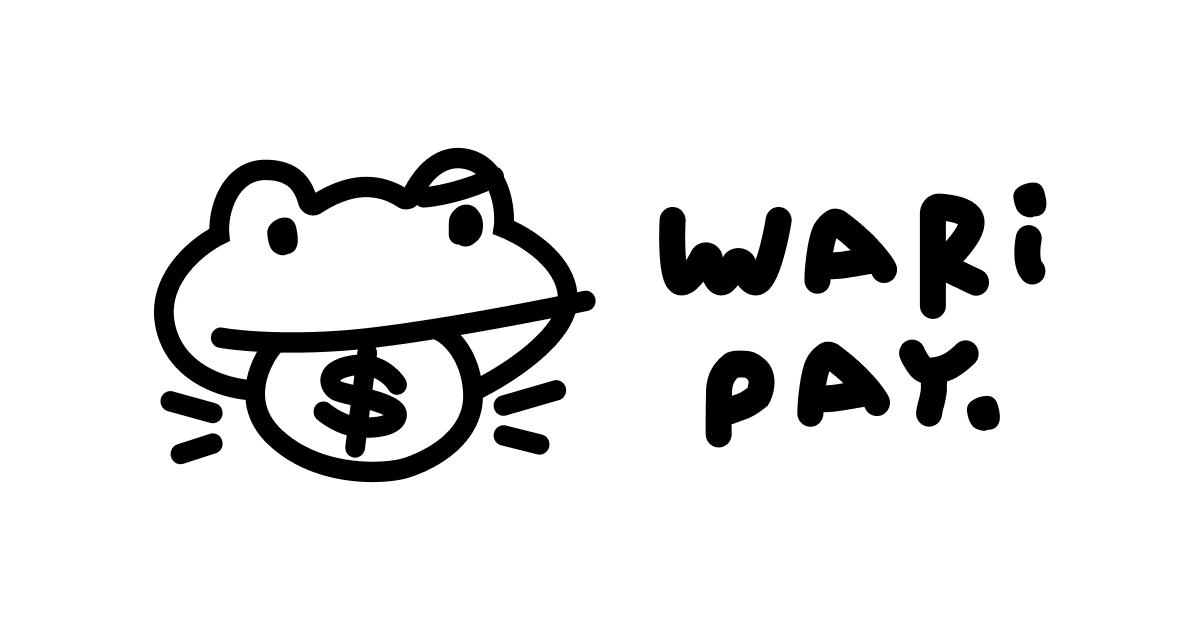
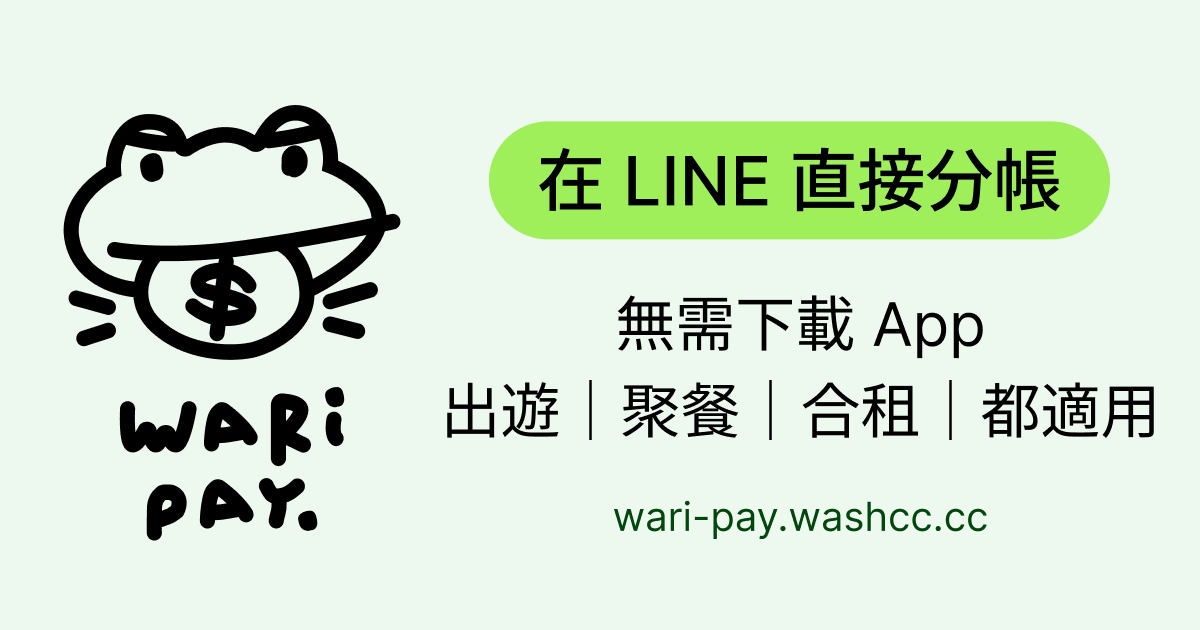
chore: replace OG image and add twitter:card meta tag

Changed region(s): [[0.0308, 0.1508, 0.9867, 0.8746], [0.4933, 0.7841, 0.8325, 0.8444]]

diff --git a/index.html b/index.html
@@ -21,6 +21,8 @@
     <meta property="og:image" content="https://www.washcc.cc/og-image.png" />
     <meta property="og:url" content="https://www.washcc.cc" />
     <meta property="og:type" content="website" />
+    <meta name="twitter:card" content="summary_large_image" />
+    <meta name="twitter:image" content="https://www.washcc.cc/og-image.png" />
   </head>
   <body>
     <div id="root"></div>
